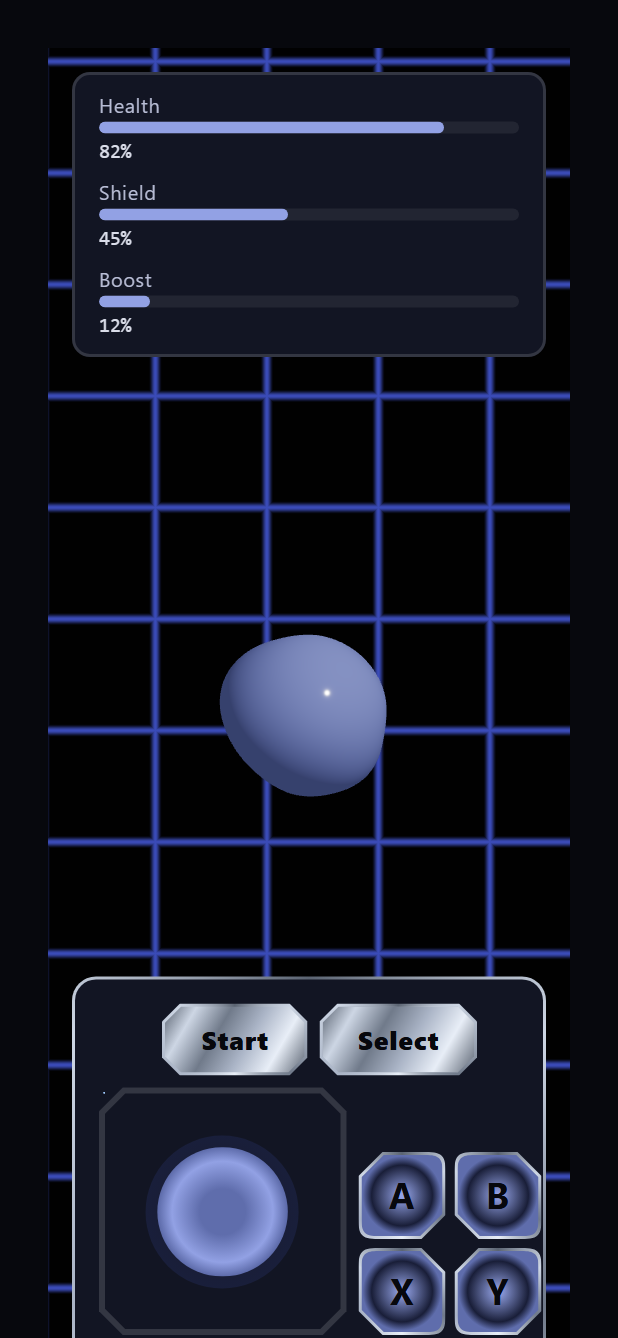
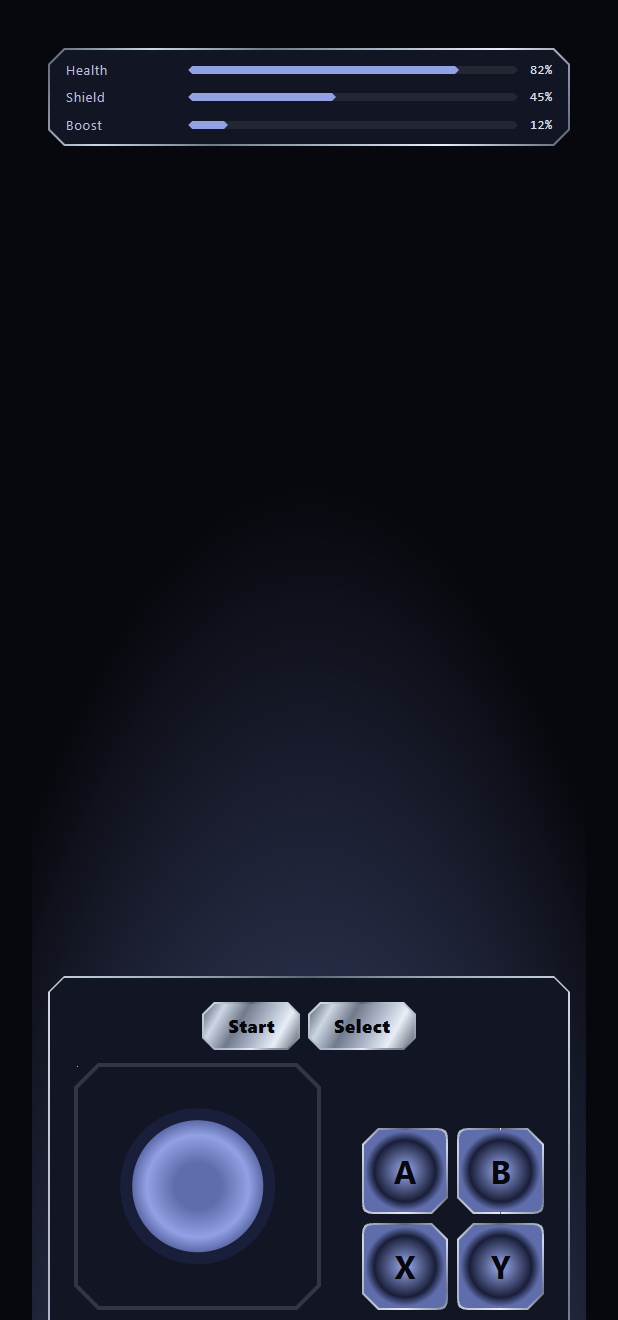
Refresh the README hero with the corrected controller styling
Recapture docs/portal-controller.png from the ControlSurface story so the
hero shows the beveled HUD band, metal Start/Select keys, analog stick, and
A/B/X/Y grid. The headless capture cannot composite the WebGL orb, so the
alt-text now notes the live Storybook adds the distort orb and rippleGrid.

diff --git a/README.md b/README.md
@@ -7,7 +7,7 @@ Fiber presentation surface.
 
 ## Demo
 
-![Portal mobile controller: a HUD readout band, a centred distort orb over an interactive rippleGrid shader backdrop, and a metal-trimmed deck holding Start and Select keys, an analog joystick, and an A/B/X/Y action grid](https://raw.githubusercontent.com/LairdWT/portal/main/docs/portal-controller.png)
+![Portal mobile controller: a beveled HUD readout band over a deep shader backdrop, and a metal-trimmed deck holding Start and Select keys, an analog stick, and an A/B/X/Y action grid. The live Storybook adds an animated distort orb over an interactive rippleGrid shader.](https://raw.githubusercontent.com/LairdWT/portal/main/docs/portal-controller.png)
 
 Live, interactive Storybook (every control, the controller showcase with the
 R3F orb backdrop, and the Unity-binding example):
